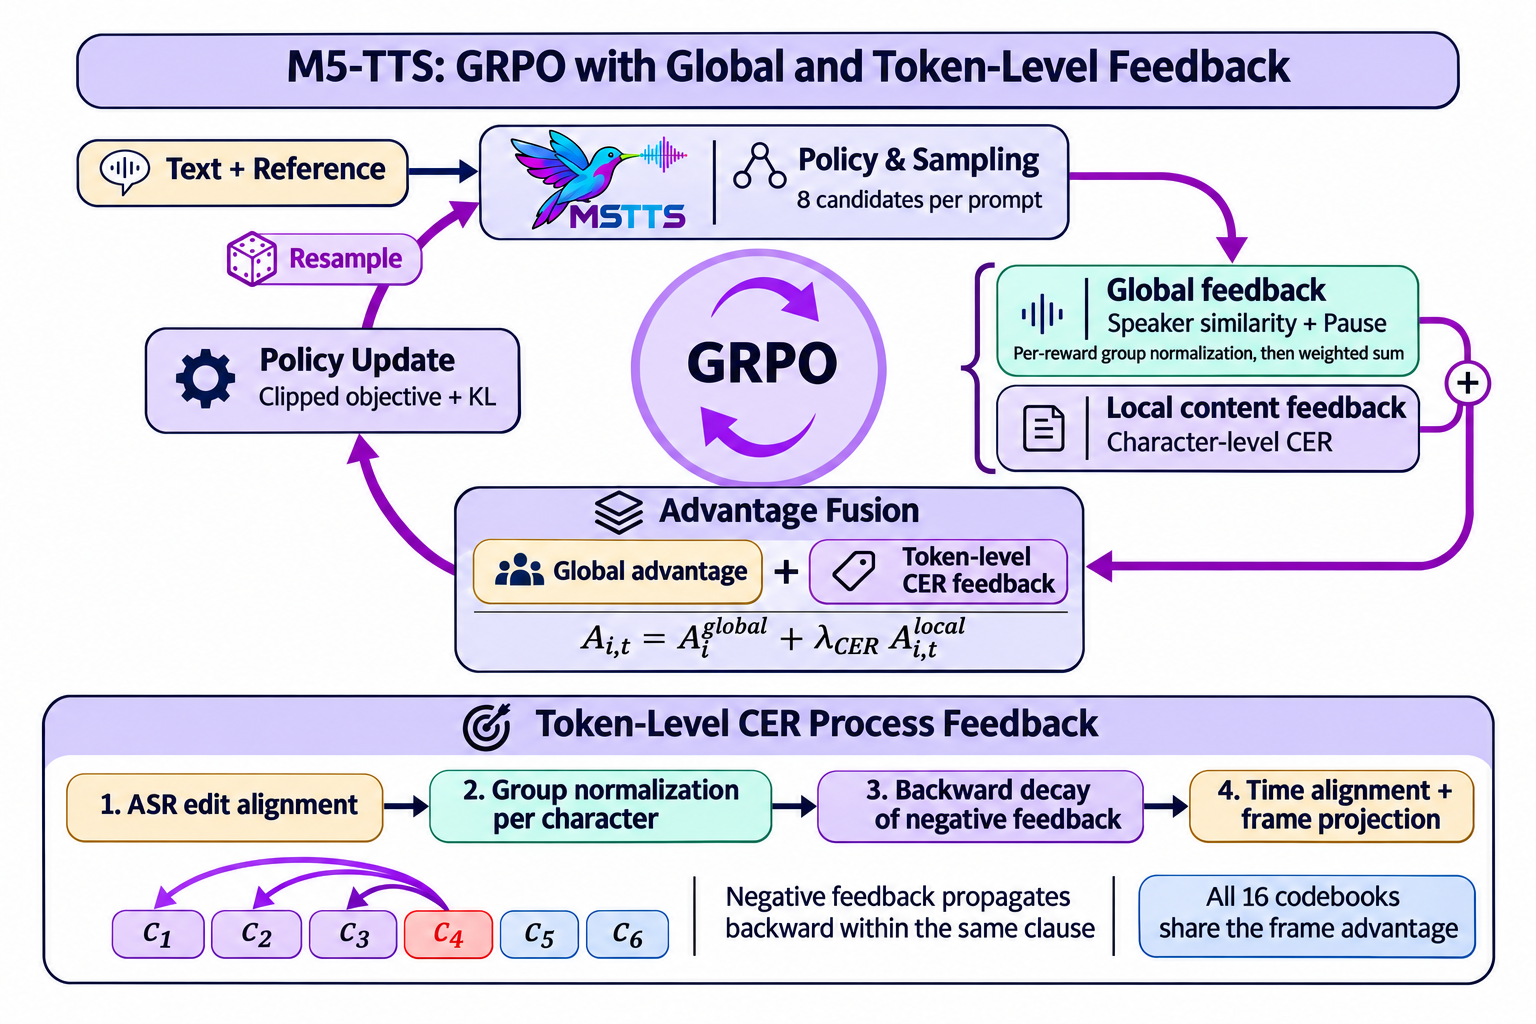
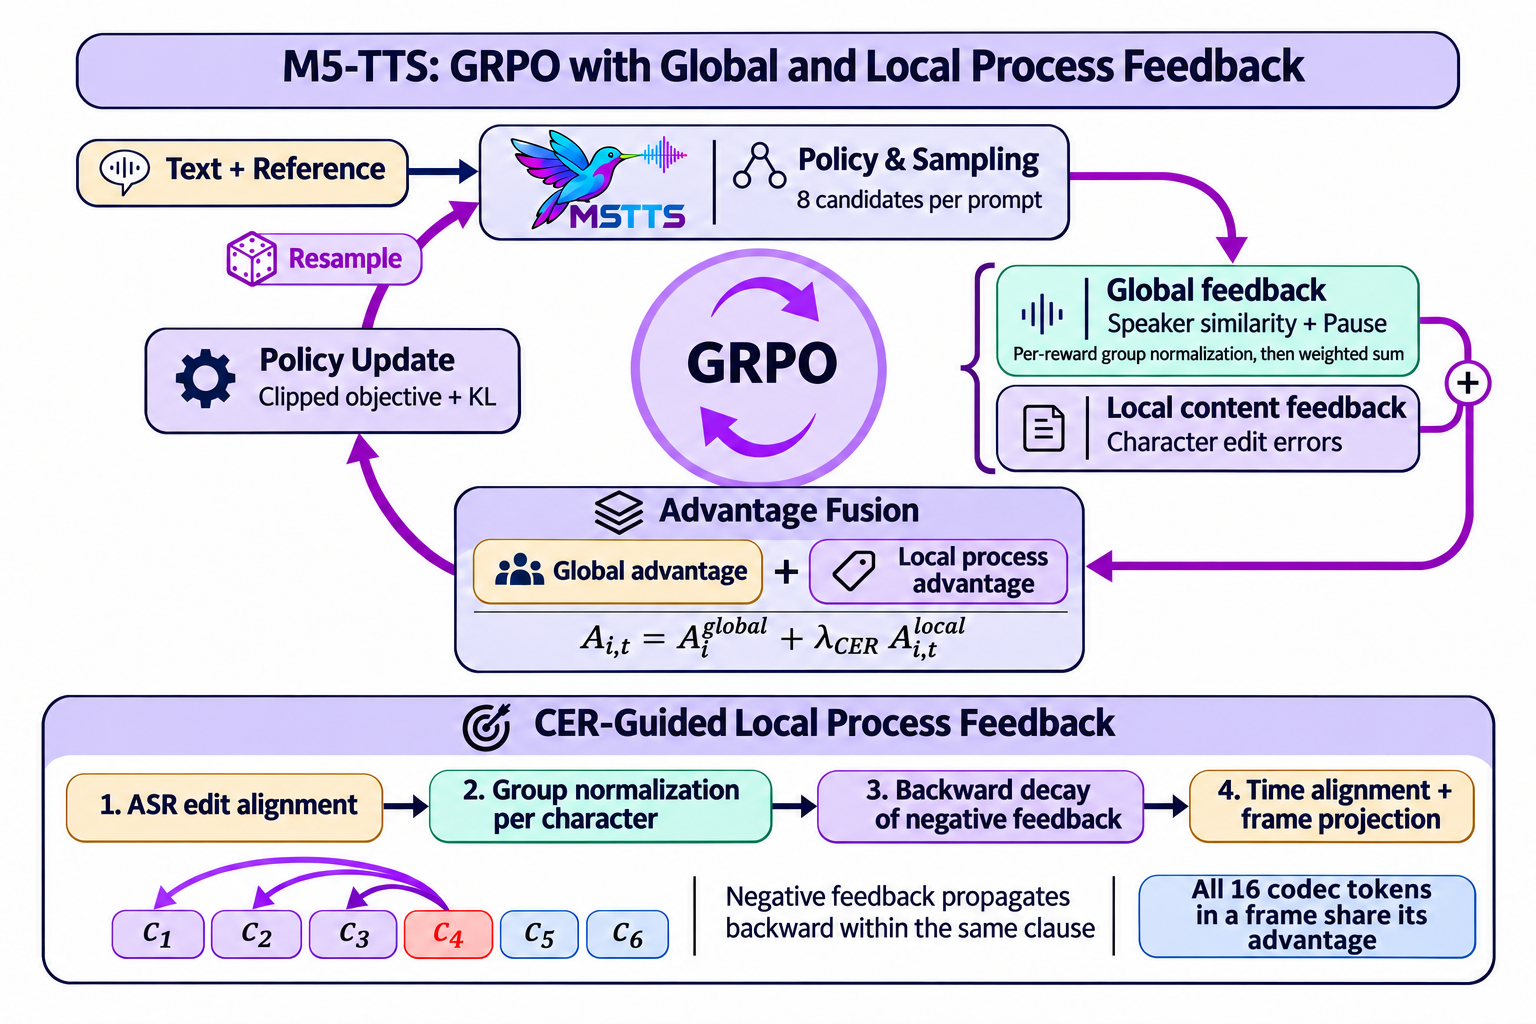
Add files via upload

diff --git a/README.md b/README.md
@@ -39,7 +39,7 @@
 
 - **24 kHz speech output** with a causal speech-codec decoder.
 - **CPU streaming** through inference graph optimization, reusable caches, stateful codec decoding, and adaptive chunk scheduling.
-- **Global + local post-training feedback:** speaker-similarity and pause rewards are normalized separately before weighted aggregation, then combined with token-level CER process advantages.
+- **Global + local post-training feedback:** speaker-similarity and pause rewards are normalized separately before weighted aggregation, then combined with CER-guided local process feedback derived from character edit errors.
 
 ## 🎧 Try M5-TTS
 
@@ -205,15 +205,15 @@ The temporal backbone predicts **codebook 0** at each frame. The local MTP Trans
 
 1. **Basic pre-training:** approximately **400,000 hours** of multilingual and regional speech, including Emilia, Emilia-YODAS, in-house recordings, and WenetSpeech datasets.
 2. **Continued pre-training:** a curated **65,000-hour subset** of the pre-training corpus, emphasizing recording quality, expressiveness, and challenging pronunciation. This is a subset, not additional independent training data.
-3. **GRPO:** normalize utterance-level **SIM** and **pause** rewards separately within the candidate group for the same prompt, then weight and sum them to obtain the global advantage. ASR edit alignment produces per-character group-relative advantages; negative feedback propagates backward within a clause with exponential decay, then maps to codec frames. Add this local CER process advantage to the global advantage. All 16 codebooks in a frame share the resulting signal.
+3. **GRPO:** normalize utterance-level **SIM** and **pause** rewards separately within the candidate group for the same prompt, then weight and sum them to obtain the global advantage. ASR edit alignment assigns character-level edit counts to the target text. Group normalization converts these counts into relative advantages at each character position; negative feedback propagates backward within each clause with exponential decay and is projected onto codec frames through time alignment. This **CER-guided local process feedback** is added to the global advantage for policy updates. All 16 codec tokens within a frame share the resulting frame-level advantage.
 4. **Speaker-specific fine-tuning:** curated recordings of a designated speaker support a dedicated multilingual voice.
 
-Global advantage: `1.0 × norm(SIM) + 0.5 × norm(Pause)`. Each `norm` is computed separately over candidates for the same prompt; the weighted sum is used directly, with no further normalization. The local CER advantage weight is **0.5**, and the KL coefficient is **0.01**. Sentence-level CER broadcasting is disabled.
+Global advantage: `1.0 × norm(SIM) + 0.5 × norm(Pause)`. Each `norm` is computed separately over candidates for the same prompt; the weighted sum is used directly, with no further normalization. The CER-guided local process advantage weight is **0.5**, and the KL coefficient is **0.01**. Sentence-level CER broadcasting is disabled.
 
 Pre-training conditions on `accent → language → text`; speaker-specific fine-tuning adds the speaker field: `accent → speaker → language → text`.
 
 <p align="center">
-  <img src="assets/grpo.png" alt="GRPO: separate group normalization of SIM and pause rewards before weighting, plus local CER process feedback" width="1000">
+  <img src="assets/grpo.png" alt="GRPO: separate group normalization of SIM and pause rewards before weighting, plus CER-guided local process feedback projected from characters onto codec frames" width="1000">
 </p>
 
 ### Efficient inference
